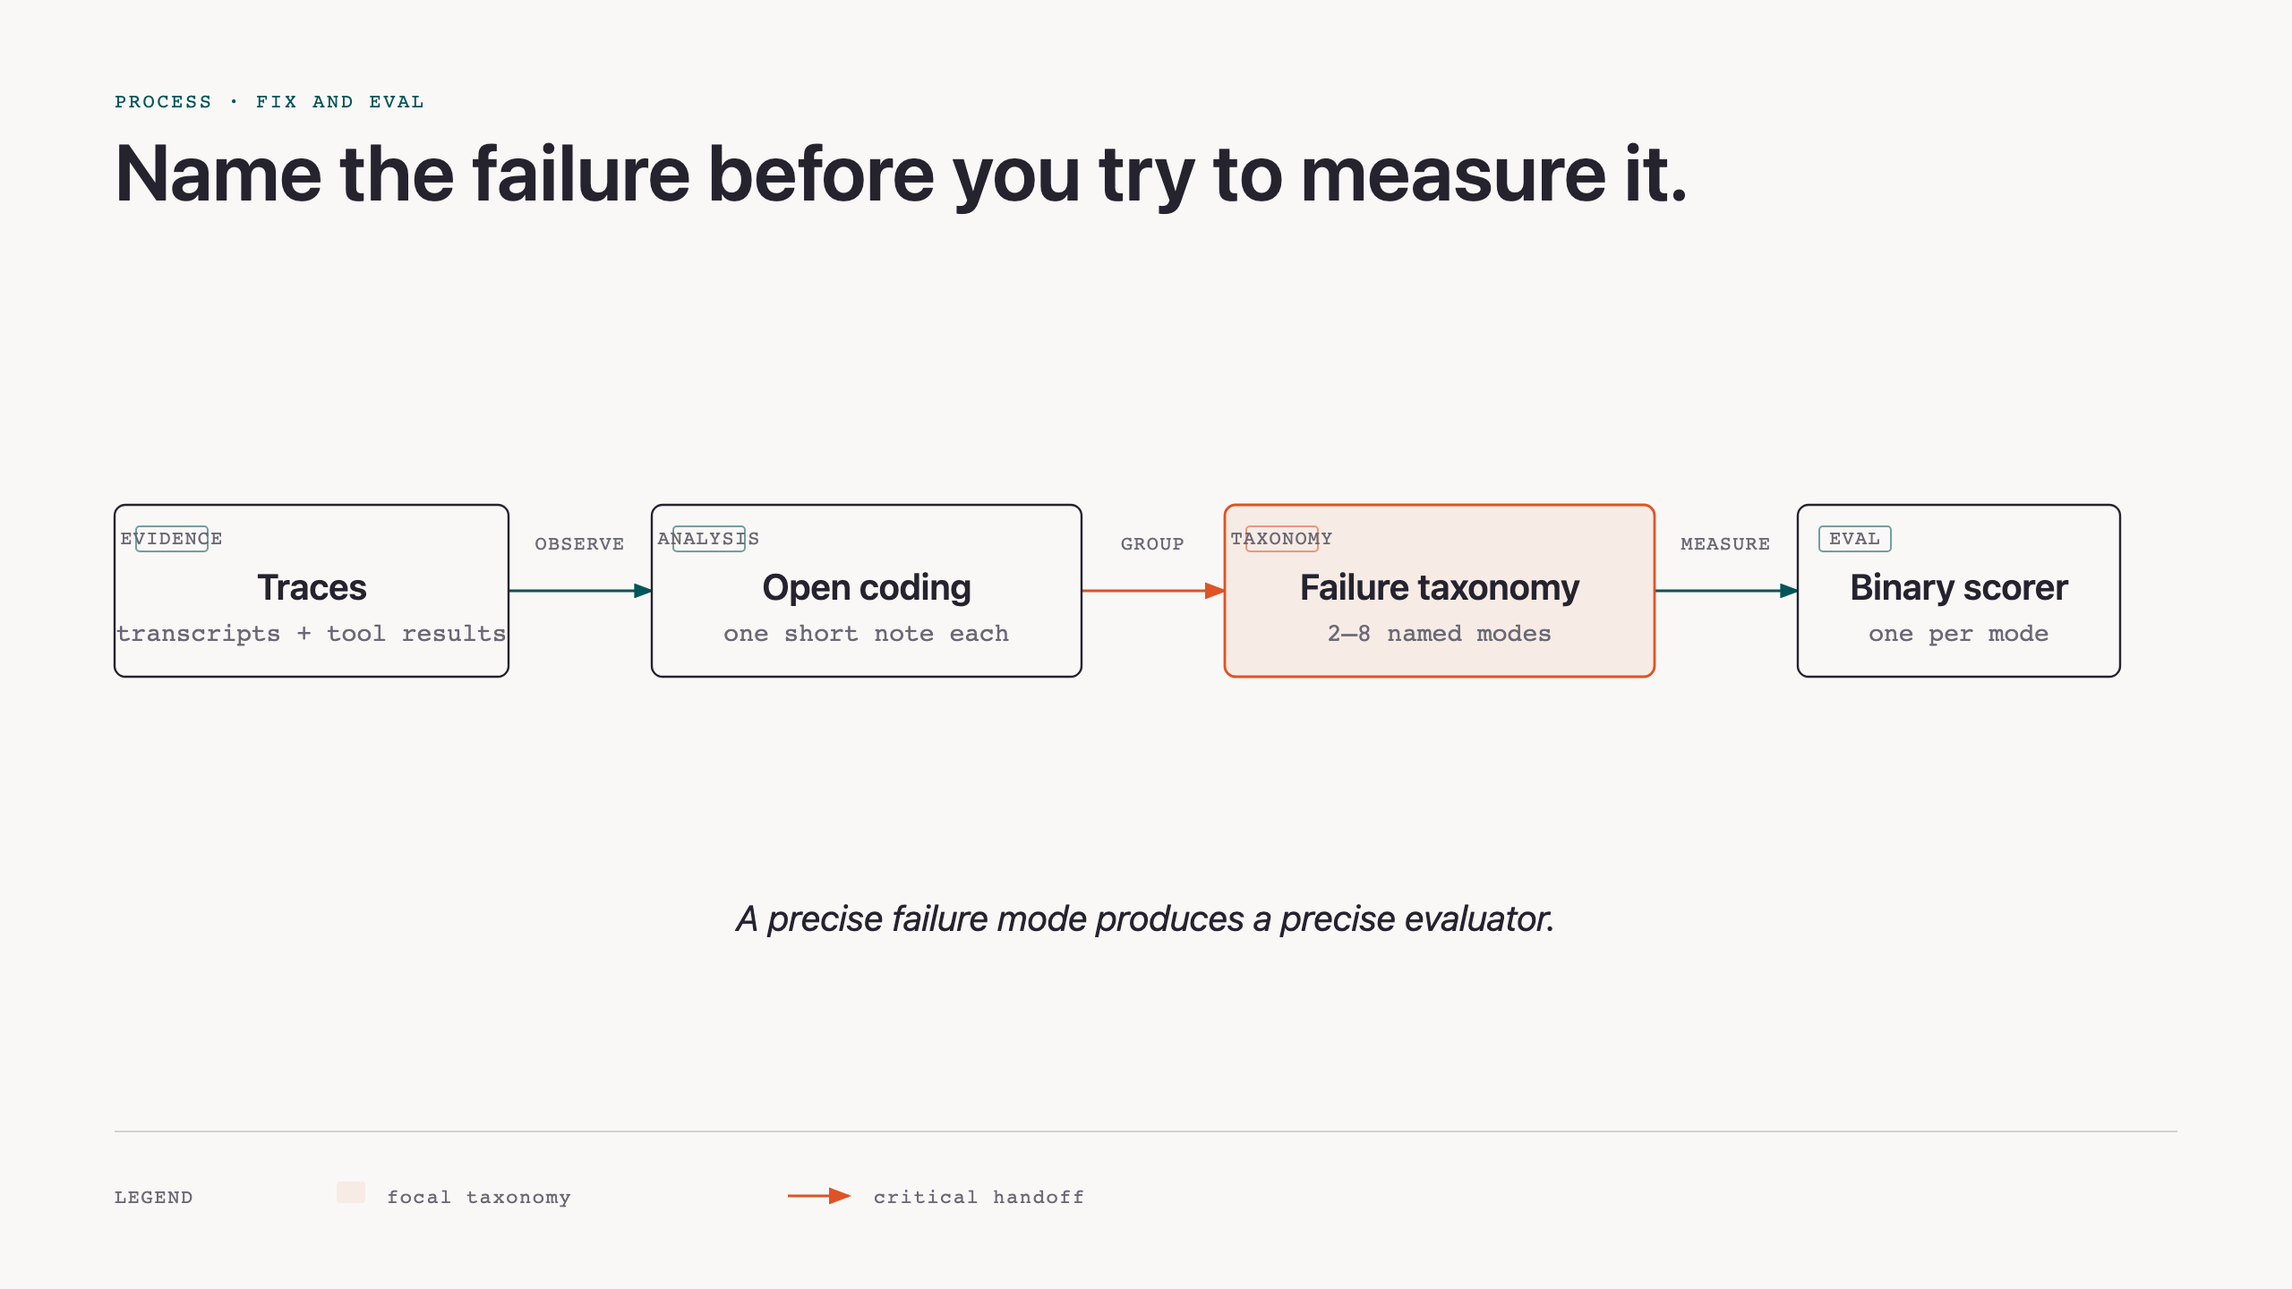
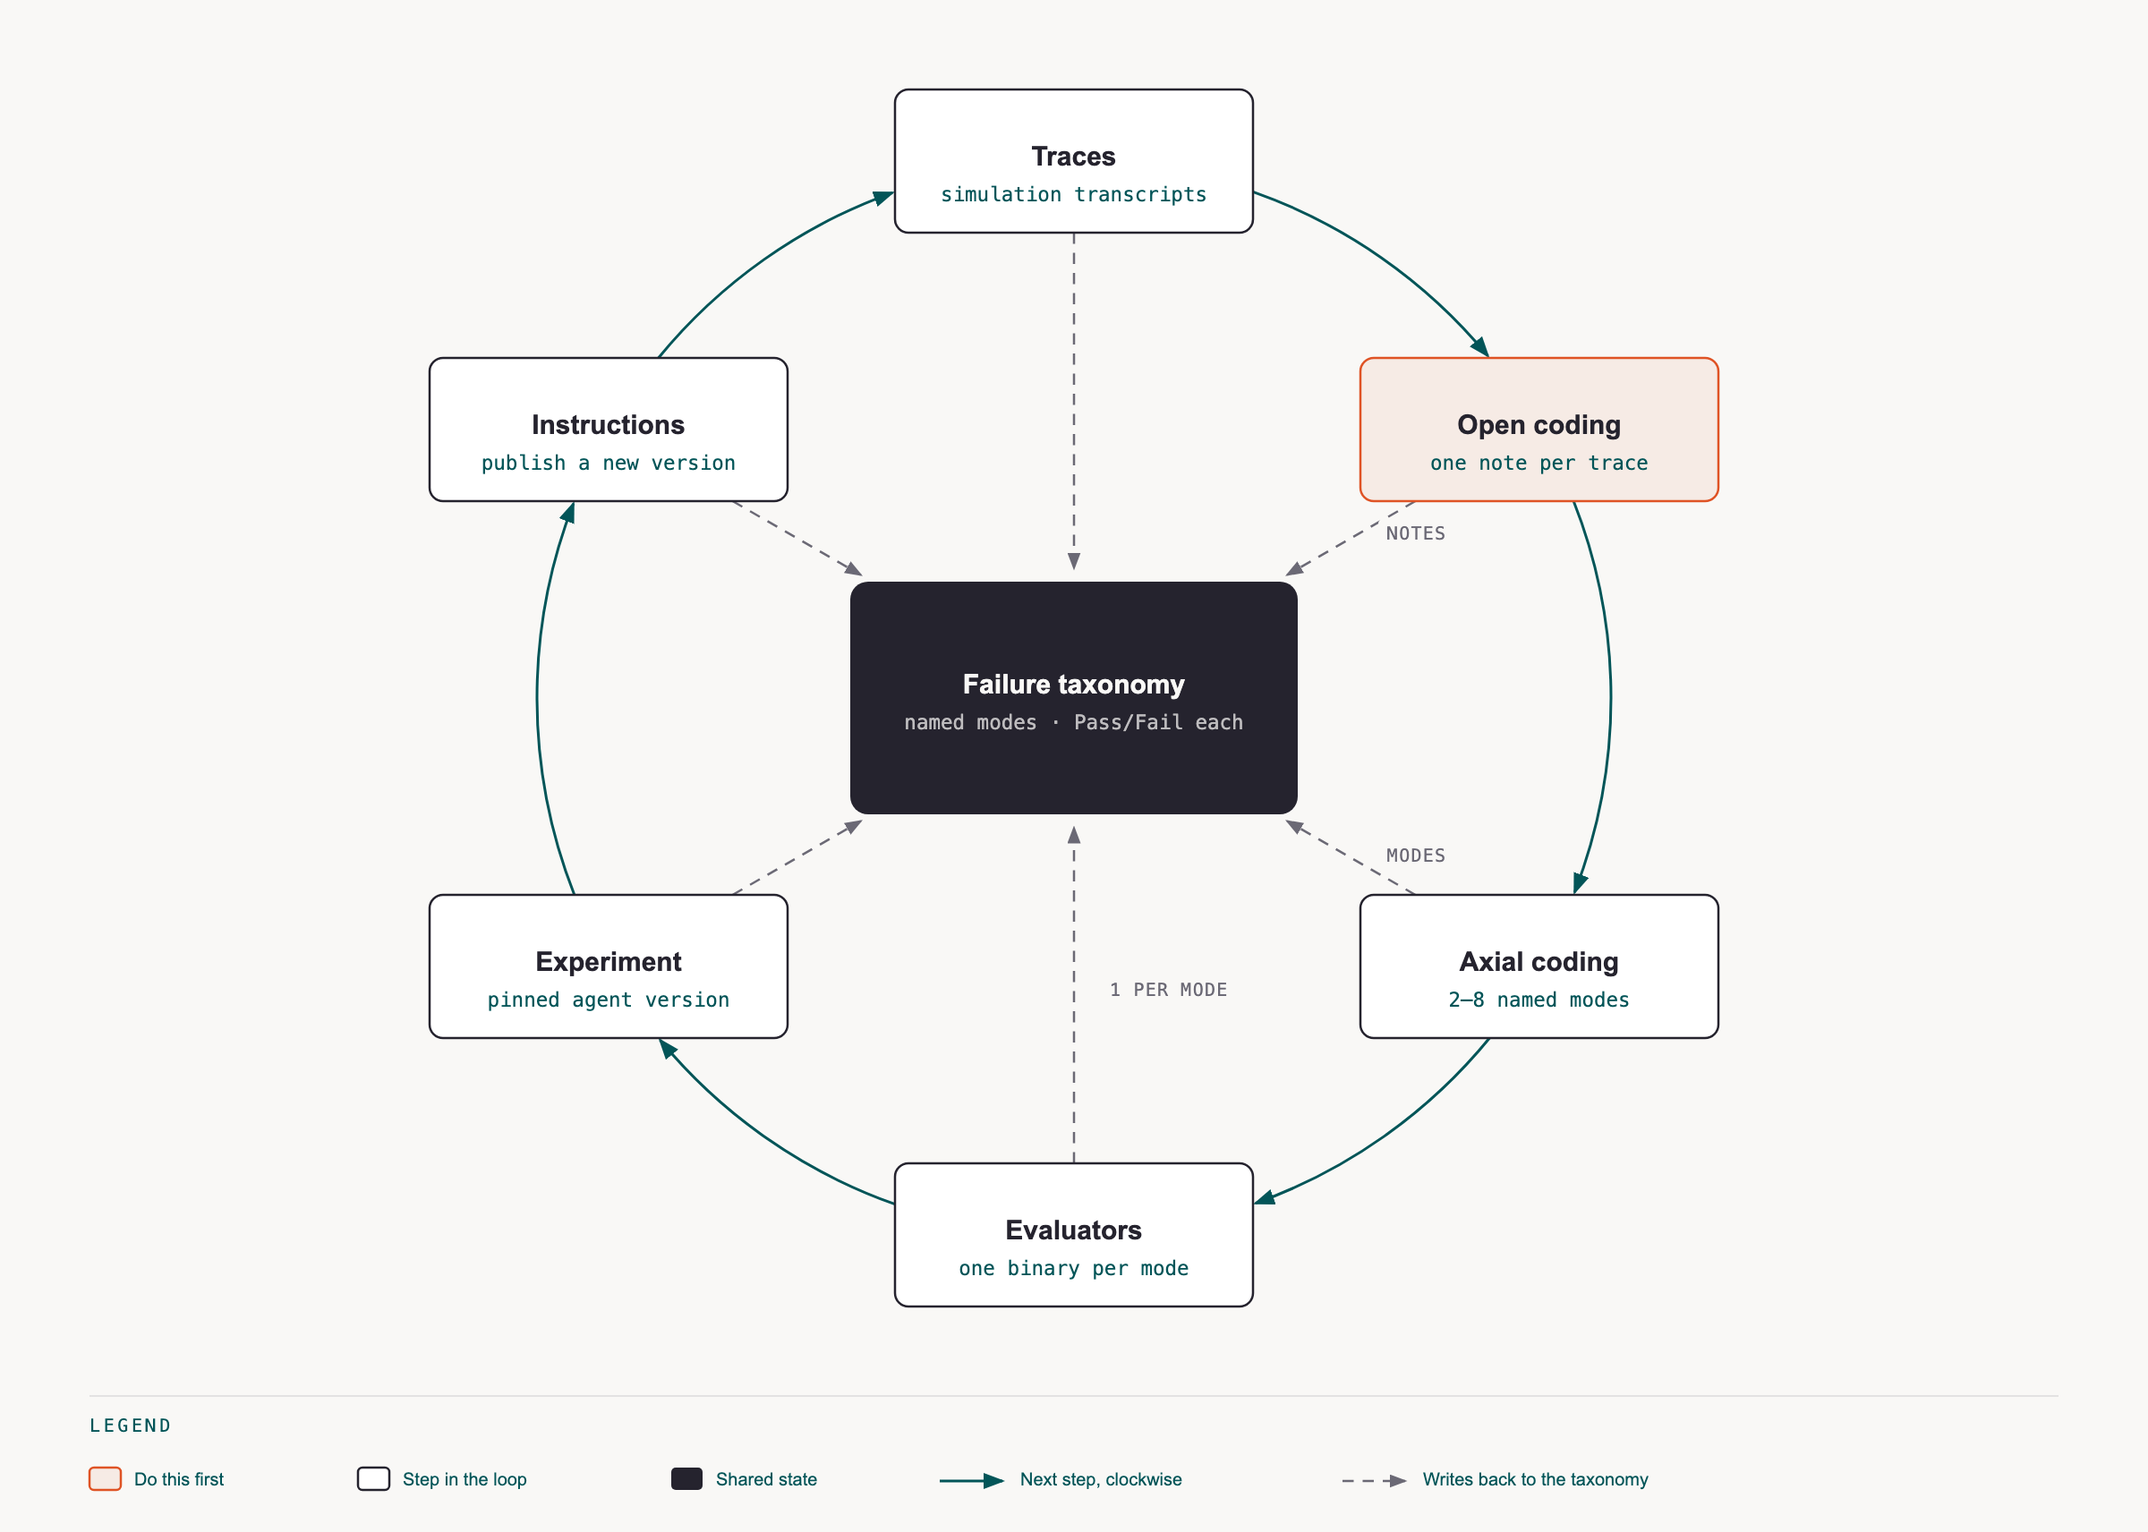
Adapt workshop error analysis diagram

diff --git a/modules/04-fix-and-eval/assets/error-analysis-loop.html b/modules/04-fix-and-eval/assets/error-analysis-loop.html
@@ -1,1 +1,108 @@
-<!doctype html><html lang="en"><head><meta charset="utf-8"><title>Error analysis to scorer</title><style>body{margin:0;background:#f9f8f6}.diagram-container{width:100%;max-width:100%;min-width:0;overflow-x:auto}svg{display:block;width:100%;min-width:1280px;background:#f9f8f6}.title{font:600 44px Avio,system-ui,sans-serif;fill:#25232e}.eyebrow{font:500 11px Mono,monospace;letter-spacing:1.3px;fill:#025558}.name{font:600 20px Avio,system-ui,sans-serif;fill:#25232e}.sub{font:14px Mono,monospace;fill:#6b6975}.tag{font:500 11px Mono,monospace;letter-spacing:.6px;fill:#6b6975}.legend{font:500 11px Mono,monospace;letter-spacing:.8px;fill:#6b6975}.callout{font:italic 20px Avio,system-ui,sans-serif;fill:#25232e}.node{fill:#f9f8f6;stroke:#25232e;stroke-width:1.2}.focal{fill:rgba(223,83,37,.08);stroke:#df5325;stroke-width:1.4}.zone{fill:rgba(37,35,46,.02);stroke:rgba(37,35,46,.22);stroke-width:1}.arrow{fill:none;stroke:#025558;stroke-width:1.4;marker-end:url(#arrow)}.accent-arrow{fill:none;stroke:#df5325;stroke-width:1.6;marker-end:url(#arrow-accent)}.link-arrow{fill:none;stroke:#299d8f;stroke-width:1.4;marker-end:url(#arrow-link)}.return{fill:none;stroke:#6b6975;stroke-width:1.1;stroke-dasharray:5,4;marker-end:url(#arrow)}@media print{.diagram-container{overflow-x:visible}svg{min-width:0}}</style></head><body><div class="diagram-container"><svg viewBox="0 0 1280 720" role="img" aria-labelledby="error-analysis-loop-title error-analysis-loop-desc"><title id="error-analysis-loop-title">Error analysis to scorer</title><desc id="error-analysis-loop-desc">Transcript observations are grouped into a failure taxonomy before each mode gets a focused binary scorer.</desc><defs><marker id="arrow" markerWidth="8" markerHeight="6" refX="7" refY="3" orient="auto"><polygon points="0 0,8 3,0 6" fill="#025558"/></marker><marker id="arrow-accent" markerWidth="8" markerHeight="6" refX="7" refY="3" orient="auto"><polygon points="0 0,8 3,0 6" fill="#df5325"/></marker><marker id="arrow-link" markerWidth="8" markerHeight="6" refX="7" refY="3" orient="auto"><polygon points="0 0,8 3,0 6" fill="#299d8f"/></marker></defs><rect width="1280" height="720" fill="#f9f8f6"/><text x="64" y="60" class="eyebrow">PROCESS · FIX AND EVAL</text><text x="64" y="112" class="title">Name the failure before you try to measure it.</text><path d="M284 330 H364" class="arrow"/><path d="M604 330 H684" class="accent-arrow"/><path d="M924 330 H1004" class="arrow"/><rect x="292.0" y="298" width="64" height="12" rx="2" fill="#f9f8f6"/><text x="324" y="307" text-anchor="middle" class="tag">OBSERVE</text><rect x="612.0" y="298" width="64" height="12" rx="2" fill="#f9f8f6"/><text x="644" y="307" text-anchor="middle" class="tag">GROUP</text><rect x="932.0" y="298" width="64" height="12" rx="2" fill="#f9f8f6"/><text x="964" y="307" text-anchor="middle" class="tag">MEASURE</text><rect x="64" y="282" width="220" height="96" rx="6" fill="#f9f8f6"/><rect x="64" y="282" width="220" height="96" rx="6" class="node"/><rect x="76" y="294" width="40" height="14" rx="2" fill="none" stroke="#025558" stroke-opacity=".55"/><text x="96" y="304" text-anchor="middle" class="tag">EVIDENCE</text><text x="174.0" y="335" text-anchor="middle" class="name">Traces</text><text x="174.0" y="358" text-anchor="middle" class="sub">transcripts + tool results</text><rect x="364" y="282" width="240" height="96" rx="6" fill="#f9f8f6"/><rect x="364" y="282" width="240" height="96" rx="6" class="node"/><rect x="376" y="294" width="40" height="14" rx="2" fill="none" stroke="#025558" stroke-opacity=".55"/><text x="396" y="304" text-anchor="middle" class="tag">ANALYSIS</text><text x="484.0" y="335" text-anchor="middle" class="name">Open coding</text><text x="484.0" y="358" text-anchor="middle" class="sub">one short note each</text><rect x="684" y="282" width="240" height="96" rx="6" fill="#f9f8f6"/><rect x="684" y="282" width="240" height="96" rx="6" class="focal"/><rect x="696" y="294" width="40" height="14" rx="2" fill="none" stroke="#df5325" stroke-opacity=".55"/><text x="716" y="304" text-anchor="middle" class="tag">TAXONOMY</text><text x="804.0" y="335" text-anchor="middle" class="name">Failure taxonomy</text><text x="804.0" y="358" text-anchor="middle" class="sub">2–8 named modes</text><rect x="1004" y="282" width="180" height="96" rx="6" fill="#f9f8f6"/><rect x="1004" y="282" width="180" height="96" rx="6" class="node"/><rect x="1016" y="294" width="40" height="14" rx="2" fill="none" stroke="#025558" stroke-opacity=".55"/><text x="1036" y="304" text-anchor="middle" class="tag">EVAL</text><text x="1094.0" y="335" text-anchor="middle" class="name">Binary scorer</text><text x="1094.0" y="358" text-anchor="middle" class="sub">one per mode</text><text x="640" y="520" text-anchor="middle" class="callout">A precise failure mode produces a precise evaluator.</text><line x1="64" y1="632" x2="1216" y2="632" stroke="rgba(37,35,46,.18)"/><text x="64" y="672" class="legend">LEGEND</text><rect x="188" y="660" width="16" height="12" rx="2" fill="rgba(223,83,37,.08)"/><text x="216" y="672" class="legend">focal taxonomy</text><line x1="440" y1="668" x2="474" y2="668" class="accent-arrow"/><text x="488" y="672" class="legend">critical handoff</text></svg></div></body></html>
+<!DOCTYPE html>
+<html lang="en">
+<head>
+  <meta charset="UTF-8">
+  <meta name="viewport" content="width=device-width, initial-scale=1.0">
+  <title>Error analysis loop</title>
+  <!-- Adapted for this workshop from orq-ai/orq-workshop module 07. -->
+  <style>
+    /* orq brand fonts, self-hosted in docs/stylesheets/fonts (see docs/stylesheets/extra.css). */
+
+    *, *::before, *::after { box-sizing: border-box; margin: 0; padding: 0; }
+    :root {
+      --color-paper:  #f9f8f6;   /* orq sand */
+      --color-ink:    #25232e;   /* orq ink */
+      --color-muted:  #025558;   /* orq teal */
+      --color-accent: #df5325;   /* orq orange-deep */
+      --font-sans:  'Avio Sans', system-ui, sans-serif;
+      --font-title: 'Kurrent', 'Avio Sans', sans-serif;
+      --font-mono:  'Kurrent Mono', ui-monospace, monospace;
+    }
+    body { font-family: var(--font-sans); background: var(--color-paper); color: var(--color-ink); min-height: 100vh; display: flex; align-items: center; justify-content: center; padding: 3rem 2rem; }
+    .frame { max-width: 1200px; width: 100%; }
+    .eyebrow { font-family: var(--font-mono); font-size: 0.66rem; font-weight: 500; letter-spacing: 0.18em; text-transform: uppercase; color: var(--color-muted); margin-bottom: 0.5rem; }
+    h1 { font-family: var(--font-title); font-size: clamp(1.5rem, 2.4vw + 0.75rem, 2rem); font-weight: 600; letter-spacing: -0.02em; line-height: 1.15; color: var(--color-ink); margin-bottom: 1.5rem; }
+    svg { width: 100%; min-width: 900px; display: block; }
+  </style>
+</head>
+<body>
+  <div class="frame">
+    <p class="eyebrow">Loop · Module 07</p>
+    <h1>Error analysis comes before evaluators</h1>
+
+    <svg viewBox="0 0 960 684" xmlns="http://www.w3.org/2000/svg" role="img" aria-labelledby="error-analysis-loop-title error-analysis-loop-desc">
+      <title id="error-analysis-loop-title">Error analysis loop: simulation evidence to regression gate</title>
+      <desc id="error-analysis-loop-desc">Loop diagram showing simulation transcripts moving through open and axial coding into a failure taxonomy and binary scorers, then a pinned regression evaluation and a new instruction version that produces new evidence.</desc>
+      <defs>
+        <marker id="arrow" markerWidth="8" markerHeight="6" refX="7" refY="3" orient="auto"><polygon points="0 0, 8 3, 0 6" fill="#025558"/></marker>
+        <marker id="arrow-accent" markerWidth="8" markerHeight="6" refX="7" refY="3" orient="auto"><polygon points="0 0, 8 3, 0 6" fill="#df5325"/></marker>
+        <marker id="arrow-link" markerWidth="8" markerHeight="6" refX="7" refY="3" orient="auto"><polygon points="0 0, 8 3, 0 6" fill="#299d8f"/></marker>
+        <marker id="arrow-soft" markerWidth="8" markerHeight="6" refX="7" refY="3" orient="auto"><polygon points="0 0, 8 3, 0 6" fill="#6b6975"/></marker>
+      </defs>
+
+      <rect width="100%" height="100%" fill="#f9f8f6"/>
+
+      <!-- Ring flow (clockwise arcs), then write-back spokes, then labels, then stations, then hub -->
+      <path d="M 560.000,85.726 A 240 240 0 0 1 664.969,159.073" fill="none" stroke="#025558" stroke-width="1.2" marker-end="url(#arrow)"/>
+      <path d="M 703.285,224.000 A 240 240 0 0 1 703.722,398.882" fill="none" stroke="#025558" stroke-width="1.2" marker-end="url(#arrow)"/>
+      <path d="M 665.731,464.000 A 240 240 0 0 1 561.130,537.871" fill="none" stroke="#025558" stroke-width="1.2" marker-end="url(#arrow)"/>
+      <path d="M 400.000,538.274 A 240 240 0 0 1 295.031,464.927" fill="none" stroke="#025558" stroke-width="1.2" marker-end="url(#arrow)"/>
+      <path d="M 256.715,400.000 A 240 240 0 0 1 256.278,225.118" fill="none" stroke="#025558" stroke-width="1.2" marker-end="url(#arrow)"/>
+      <path d="M 294.269,160.000 A 240 240 0 0 1 398.870,86.129" fill="none" stroke="#025558" stroke-width="1.2" marker-end="url(#arrow)"/>
+      <path d="M 480.000,104.000 L 480.000,254.000" fill="none" stroke="#6b6975" stroke-width="1" stroke-dasharray="5,4" marker-end="url(#arrow-soft)"/>
+      <path d="M 632.574,224.000 L 575.263,257.000" fill="none" stroke="#6b6975" stroke-width="1" stroke-dasharray="5,4" marker-end="url(#arrow-soft)"/>
+      <path d="M 632.574,400.000 L 575.263,367.000" fill="none" stroke="#6b6975" stroke-width="1" stroke-dasharray="5,4" marker-end="url(#arrow-soft)"/>
+      <path d="M 480.000,520.000 L 480.000,370.000" fill="none" stroke="#6b6975" stroke-width="1" stroke-dasharray="5,4" marker-end="url(#arrow-soft)"/>
+      <path d="M 327.426,400.000 L 384.737,367.000" fill="none" stroke="#6b6975" stroke-width="1" stroke-dasharray="5,4" marker-end="url(#arrow-soft)"/>
+      <path d="M 327.426,224.000 L 384.737,257.000" fill="none" stroke="#6b6975" stroke-width="1" stroke-dasharray="5,4" marker-end="url(#arrow-soft)"/>
+      <rect x="616" y="232" width="38" height="12" rx="2" fill="#f9f8f6"/>
+      <text x="620" y="241" fill="#6b6975" font-size="8" font-family="'Kurrent Mono', monospace" letter-spacing="0.06em">NOTES</text>
+      <rect x="616" y="376" width="38" height="12" rx="2" fill="#f9f8f6"/>
+      <text x="620" y="385" fill="#6b6975" font-size="8" font-family="'Kurrent Mono', monospace" letter-spacing="0.06em">MODES</text>
+      <rect x="492" y="436" width="68" height="12" rx="2" fill="#f9f8f6"/>
+      <text x="496" y="445" fill="#6b6975" font-size="8" font-family="'Kurrent Mono', monospace" letter-spacing="0.06em">1 PER MODE</text>
+      <rect x="400" y="40" width="160" height="64" rx="6" fill="#f9f8f6"/>
+      <rect x="400" y="40" width="160" height="64" rx="6" fill="#ffffff" stroke="#25232e" stroke-width="1"/>
+      <text x="480" y="74" fill="#25232e" font-size="12" font-weight="600" font-family="'Avio Sans', sans-serif" text-anchor="middle">Traces</text>
+      <text x="480" y="90" fill="#025558" font-size="9" font-family="'Kurrent Mono', monospace" text-anchor="middle">simulation transcripts</text>
+      <rect x="608" y="160" width="160" height="64" rx="6" fill="#f9f8f6"/>
+      <rect x="608" y="160" width="160" height="64" rx="6" fill="rgba(223,83,37,0.08)" stroke="#df5325" stroke-width="1"/>
+      <text x="688" y="194" fill="#25232e" font-size="12" font-weight="600" font-family="'Avio Sans', sans-serif" text-anchor="middle">Open coding</text>
+      <text x="688" y="210" fill="#025558" font-size="9" font-family="'Kurrent Mono', monospace" text-anchor="middle">one note per trace</text>
+      <rect x="608" y="400" width="160" height="64" rx="6" fill="#f9f8f6"/>
+      <rect x="608" y="400" width="160" height="64" rx="6" fill="#ffffff" stroke="#25232e" stroke-width="1"/>
+      <text x="688" y="434" fill="#25232e" font-size="12" font-weight="600" font-family="'Avio Sans', sans-serif" text-anchor="middle">Axial coding</text>
+      <text x="688" y="450" fill="#025558" font-size="9" font-family="'Kurrent Mono', monospace" text-anchor="middle">2–8 named modes</text>
+      <rect x="400" y="520" width="160" height="64" rx="6" fill="#f9f8f6"/>
+      <rect x="400" y="520" width="160" height="64" rx="6" fill="#ffffff" stroke="#25232e" stroke-width="1"/>
+      <text x="480" y="554" fill="#25232e" font-size="12" font-weight="600" font-family="'Avio Sans', sans-serif" text-anchor="middle">Evaluators</text>
+      <text x="480" y="570" fill="#025558" font-size="9" font-family="'Kurrent Mono', monospace" text-anchor="middle">one binary per mode</text>
+      <rect x="192" y="400" width="160" height="64" rx="6" fill="#f9f8f6"/>
+      <rect x="192" y="400" width="160" height="64" rx="6" fill="#ffffff" stroke="#25232e" stroke-width="1"/>
+      <text x="272" y="434" fill="#25232e" font-size="12" font-weight="600" font-family="'Avio Sans', sans-serif" text-anchor="middle">Experiment</text>
+      <text x="272" y="450" fill="#025558" font-size="9" font-family="'Kurrent Mono', monospace" text-anchor="middle">pinned agent version</text>
+      <rect x="192" y="160" width="160" height="64" rx="6" fill="#f9f8f6"/>
+      <rect x="192" y="160" width="160" height="64" rx="6" fill="#ffffff" stroke="#25232e" stroke-width="1"/>
+      <text x="272" y="194" fill="#25232e" font-size="12" font-weight="600" font-family="'Avio Sans', sans-serif" text-anchor="middle">Instructions</text>
+      <text x="272" y="210" fill="#025558" font-size="9" font-family="'Kurrent Mono', monospace" text-anchor="middle">publish a new version</text>
+      <rect x="380" y="260" width="200" height="104" rx="8" fill="#25232e"/>
+      <text x="480" y="310" fill="#f9f8f6" font-size="12" font-weight="600" font-family="'Avio Sans', sans-serif" text-anchor="middle">Failure taxonomy</text>
+      <text x="480" y="326" fill="rgba(249,248,246,0.72)" font-size="9" font-family="'Kurrent Mono', monospace" text-anchor="middle">named modes · Pass/Fail each</text>
+
+      <!-- Legend strip -->
+      <line x1="40" y1="624" x2="920" y2="624" stroke="rgba(37,35,46,0.10)" stroke-width="0.8"/>
+      <text x="40" y="640" fill="#025558" font-size="8" font-family="'Kurrent Mono', monospace" letter-spacing="0.18em">LEGEND</text>
+      <rect x="40" y="656" width="14" height="10" rx="2" fill="rgba(223,83,37,0.08)" stroke="#df5325" stroke-width="1"/>
+      <text x="60" y="664" fill="#025558" font-size="8" font-family="'Avio Sans', sans-serif">Do this first</text>
+      <rect x="160" y="656" width="14" height="10" rx="2" fill="#ffffff" stroke="#25232e" stroke-width="1"/>
+      <text x="180" y="664" fill="#025558" font-size="8" font-family="'Avio Sans', sans-serif">Step in the loop</text>
+      <rect x="300" y="656" width="14" height="10" rx="2" fill="#25232e"/>
+      <text x="320" y="664" fill="#025558" font-size="8" font-family="'Avio Sans', sans-serif">Shared state</text>
+      <line x1="420" y1="662" x2="448" y2="662" stroke="#025558" stroke-width="1.2" marker-end="url(#arrow)"/>
+      <text x="456" y="664" fill="#025558" font-size="8" font-family="'Avio Sans', sans-serif">Next step, clockwise</text>
+      <line x1="600" y1="662" x2="628" y2="662" stroke="#6b6975" stroke-width="1" stroke-dasharray="5,4" marker-end="url(#arrow-soft)"/>
+      <text x="636" y="664" fill="#025558" font-size="8" font-family="'Avio Sans', sans-serif">Writes back to the taxonomy</text>
+    </svg>
+  </div>
+</body>
+</html>
